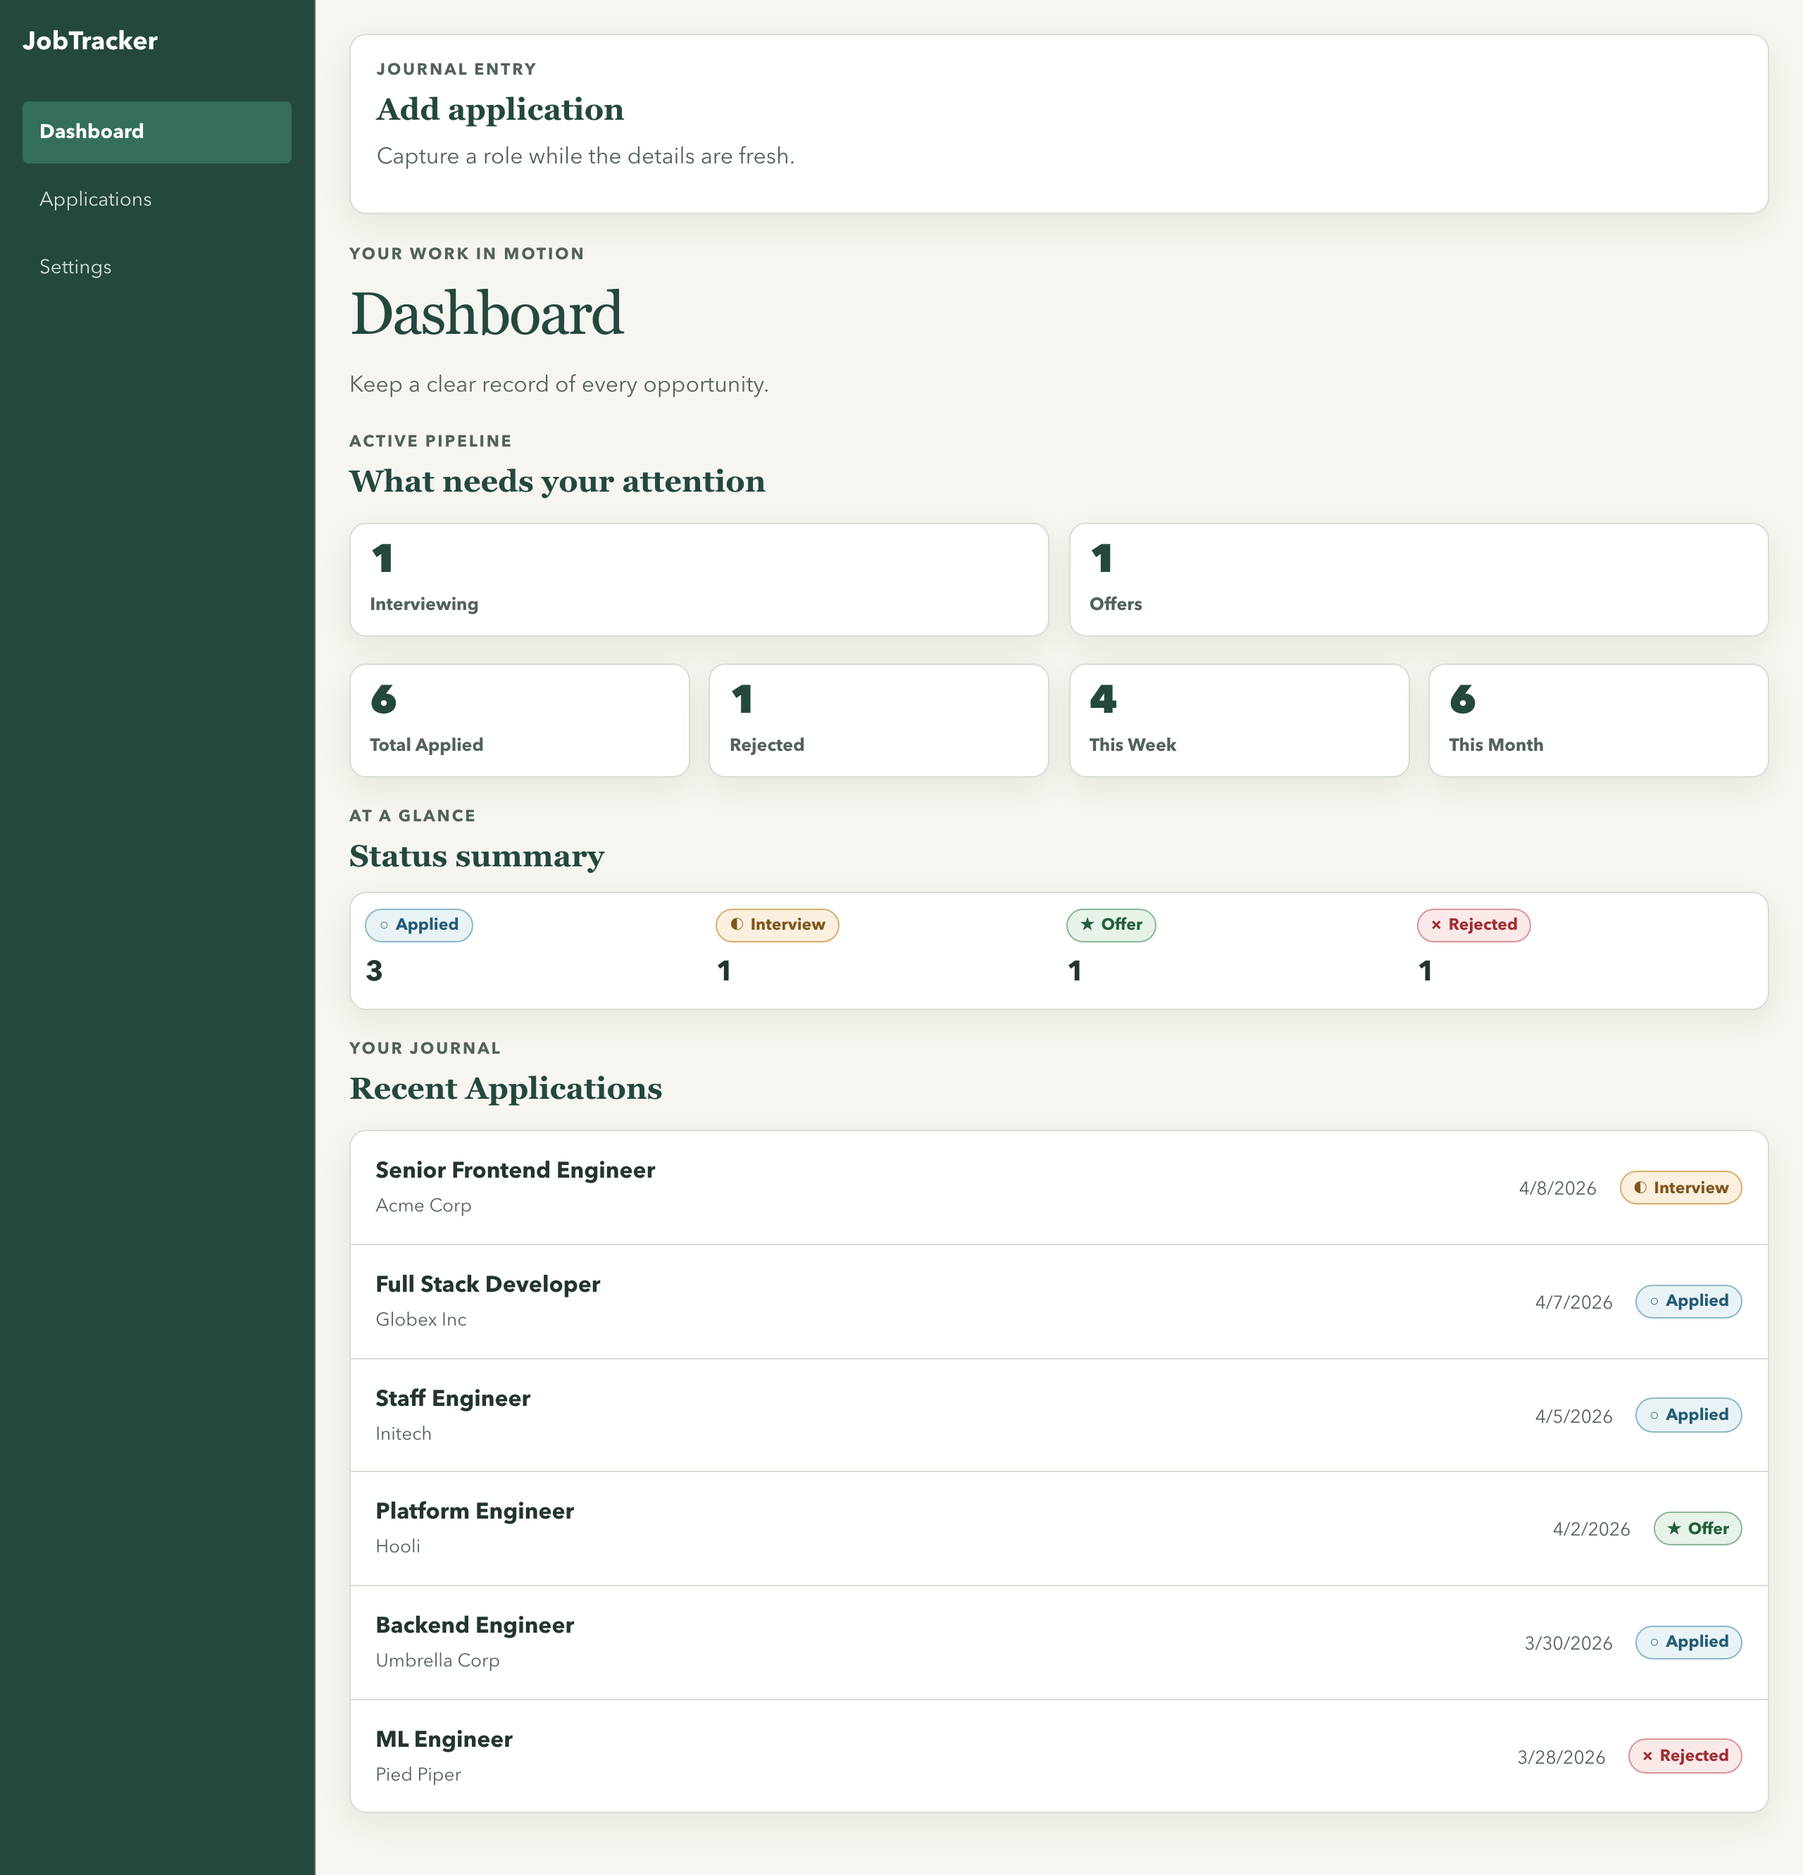
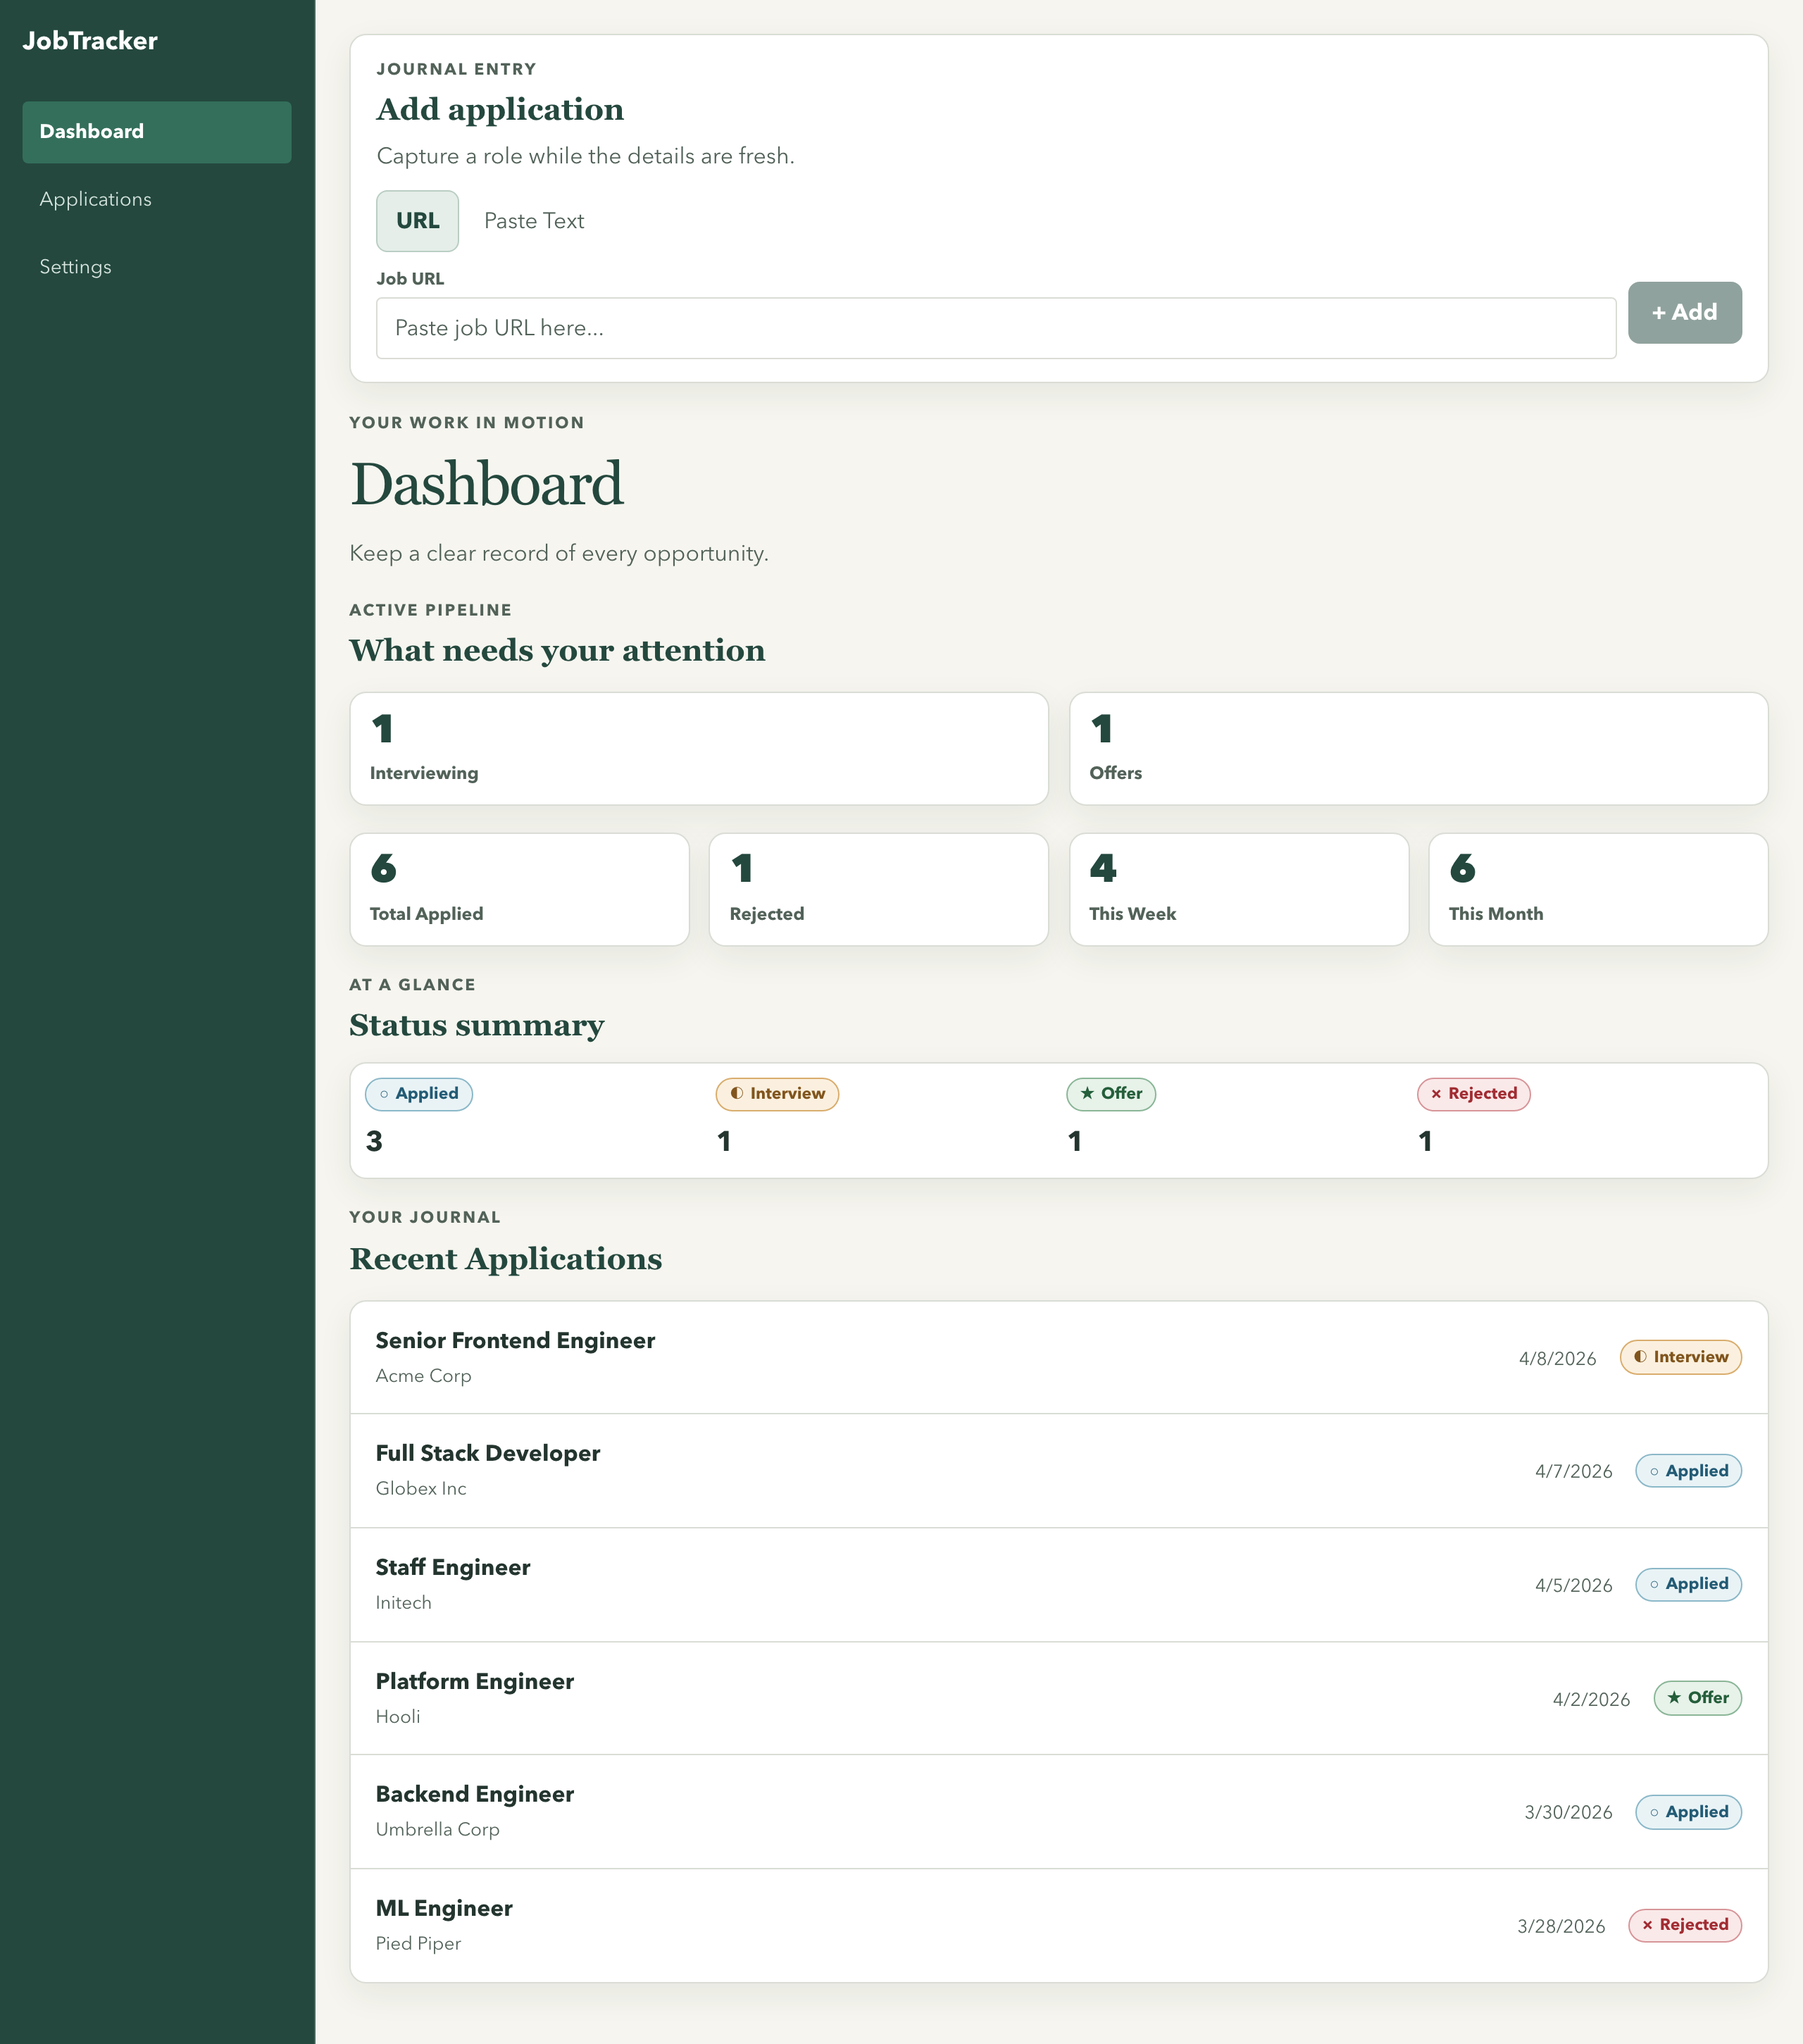
fix: pin local Docker daemon and forward container shutdown

diff --git a/__tests__/scripts/local-container-signals.test.ts b/__tests__/scripts/local-container-signals.test.ts
@@ -1,0 +1,69 @@
+import { spawn } from "node:child_process";
+import { join } from "node:path";
+import { pathToFileURL } from "node:url";
+
+const moduleUrl = pathToFileURL(join(__dirname, "../../scripts/local-container-start.mjs")).href;
+const valid = {
+  NODE_ENV: "production", LOCAL_DOCKER_HTTP_ENABLED: "1",
+  POSTGRES_PASSWORD: "c".repeat(64), DATABASE_URL: `postgresql://jobtracker:${"c".repeat(64)}@db:5432/jobtracker`,
+  ENCRYPTION_SECRET: "e".repeat(64), APP_ACCESS_TOKEN: "a".repeat(64),
+  APP_BASE_URL: "http://127.0.0.1:3000", CORS_ALLOWED_ORIGINS: "http://127.0.0.1:3000",
+};
+
+const describeSignals = process.platform === "win32" ? describe.skip : describe;
+describeSignals("local container real-child shutdown", () => {
+  it.each([
+    ["app", "SIGTERM", false], ["app", "SIGINT", false],
+    ["migration", "SIGTERM", false], ["migration", "SIGINT", false],
+    ["app", "SIGTERM", true], ["migration", "SIGTERM", true],
+  ] as const)("forwards %s %s and waits for exit (ignores signal: %s)", async (stage, signal, ignore) => {
+    const childSource = `
+      for (const signal of ["SIGTERM", "SIGINT"]) process.on(signal, () => {
+        console.log("RECEIVED:" + signal);
+        ${ignore ? "" : 'setTimeout(() => { console.log("DRAINED"); process.exit(0); }, 50);'}
+      });
+      console.log("READY:" + process.pid);
+      setInterval(() => {}, 1000);
+    `;
+    const source = `
+      import { spawn } from "node:child_process";
+      import { startLocalContainer } from ${JSON.stringify(moduleUrl)};
+      const status = await startLocalContainer({ env: ${JSON.stringify(valid)}, shutdownTimeoutMs: 150,
+        run: (command, args, options) => {
+          const migration = args.includes("migrate");
+          console.log("STAGE:" + (migration ? "migration" : "app"));
+          return spawn(process.execPath, ["-e", migration && ${JSON.stringify(stage)} === "app" ? "process.exit(0)" : ${JSON.stringify(childSource)}], { ...options, stdio: "inherit" });
+        } });
+      console.log("FINISHED:" + status);
+      process.exitCode = status;
+    `;
+    const wrapper = spawn(process.execPath, ["--input-type=module", "-e", source], { stdio: ["ignore", "pipe", "pipe"] });
+    let output = "";
+    let fixturePid: number | undefined;
+    const exited = new Promise<{ code: number | null; signal: string | null }>((resolve) => wrapper.once("exit", (code, signal) => resolve({ code, signal })));
+    const deadline = setTimeout(() => wrapper.kill("SIGKILL"), 5000);
+    try {
+      await new Promise<void>((resolve, reject) => {
+        wrapper.stdout.on("data", (chunk: Buffer) => {
+          output += chunk.toString();
+          const ready = /READY:(\d+)/u.exec(output);
+          if (ready) { fixturePid = Number(ready[1]); resolve(); }
+        });
+        wrapper.once("exit", () => reject(new Error("Wrapper exited before fixture readiness: " + output)));
+      });
+      wrapper.kill(signal);
+      const result = await exited;
+      expect(output).toContain("RECEIVED:" + signal);
+      if (!ignore) expect(output).toContain("DRAINED");
+      expect(output).toContain("FINISHED:" + (signal === "SIGTERM" ? 143 : 130));
+      expect(result).toEqual({ code: signal === "SIGTERM" ? 143 : 130, signal: null });
+      if (stage === "migration") expect(output).not.toContain("STAGE:app");
+      expect(() => process.kill(fixturePid!, 0)).toThrow();
+    } finally {
+      clearTimeout(deadline);
+      wrapper.kill("SIGKILL");
+      if (fixturePid) { try { process.kill(fixturePid, "SIGKILL"); } catch {} }
+      await exited;
+    }
+  }, 8000);
+});

diff --git a/__tests__/scripts/local-container-start.test.ts b/__tests__/scripts/local-container-start.test.ts
@@ -10,23 +10,27 @@ const valid = {
   APP_BASE_URL: "http://127.0.0.1:3000", CORS_ALLOWED_ORIGINS: "http://127.0.0.1:3000",
   APPLICATION_WRITES_ENABLED: "1", APPLICATION_IDENTITY_WRITES_ENABLED: "0", VALIDATION_MANUAL_ENTRY_ENABLED: "0",
 };
-function run(overrides = {}, migrationStatus = 0) {
+function run(overrides = {}, migrationStatus = 0, failure?: "throw" | "error") {
   const result = spawnSync(process.execPath, ["--input-type=module", "-e", `
     import { startLocalContainer } from ${JSON.stringify(moduleUrl)};
+    import { EventEmitter } from "node:events";
     const chunks=[]; for await (const c of process.stdin) chunks.push(c);
     const input=JSON.parse(Buffer.concat(chunks).toString()), calls=[], errors=[];
     const status=await startLocalContainer({ env: input.env, stderr: value=>errors.push(value),
-      run: (command,args)=>{ calls.push({command,args}); return {status: calls.length===1 ? input.migrationStatus : 0, stderr:"SENSITIVE_DATABASE_URL"}; } });
+      run: (command,args)=>{ calls.push({command,args});
+        if (input.failure === "throw") throw new Error("SENSITIVE_DATABASE_URL");
+        const child = new EventEmitter(); child.kill = () => true;
+        queueMicrotask(() => input.failure === "error" ? child.emit("error", new Error("SENSITIVE_DATABASE_URL")) : child.emit("close", calls.length===1 ? input.migrationStatus : 0, null)); return child; } });
     process.stdout.write(JSON.stringify({status,calls,errors}));
-  `], { input: JSON.stringify({ env: { ...valid, ...overrides }, migrationStatus }), encoding: "utf8" });
+  `], { input: JSON.stringify({ env: { ...valid, ...overrides }, migrationStatus, failure }), encoding: "utf8" });
   expect(result.status).toBe(0); return JSON.parse(result.stdout);
 }
 describe("local container migration boundary", () => {
   it("migrates only the owned database before the normal production entrypoint", () => {
     const result = run(); expect(result.status).toBe(0);
     expect(result.calls).toEqual([
-      { command: "node", args: ["node_modules/prisma/build/index.js", "migrate", "deploy"] },
-      { command: "npm", args: ["start"] },
+      { command: process.execPath, args: ["node_modules/prisma/build/index.js", "migrate", "deploy"] },
+      { command: process.execPath, args: ["--import", "./scripts/validate-startup-env-production.mjs", "node_modules/next/dist/bin/next", "start"] },
     ]);
   });
   it.each([
@@ -44,5 +48,11 @@ describe("local container migration boundary", () => {
   it("does not launch Next after migration failure or reveal raw subprocess diagnostics", () => {
     const result = run({}, 1); expect(result.status).toBe(1); expect(result.calls).toHaveLength(1);
     expect(result.errors.join()).toMatch(/migration/i); expect(result.errors.join()).not.toContain("SENSITIVE_DATABASE_URL");
+  });
+  it.each(["throw", "error"] as const)("sanitizes migration spawn %s and never launches Next", (failure) => {
+    const result = run({}, 0, failure);
+    expect(result.status).toBe(1); expect(result.calls).toHaveLength(1);
+    expect(result.errors.join()).toMatch(/migration/i);
+    expect(result.errors.join()).not.toContain("SENSITIVE_DATABASE_URL");
   });
 });

diff --git a/__tests__/scripts/screenshot-workflow.test.ts b/__tests__/scripts/screenshot-workflow.test.ts
@@ -23,6 +23,21 @@ if (scenario.kind === "origin") {
   let error = null;
   try { value = assertLocalCaptureBaseUrl(scenario.url); } catch (cause) { error = cause.message; }
   process.stdout.write(JSON.stringify({ value, error }));
+} else if (scenario.kind === "dashboard-ready") {
+  const workflow = await import(${JSON.stringify(workflowUrl)});
+  const events = [];
+  let mounted = false;
+  const page = {
+    async waitForSelector(selector, options) {
+      events.push({ type: "wait", selector, options });
+      await new Promise((resolve) => setTimeout(resolve, 10));
+      mounted = true;
+      events.push({ type: "form-mounted" });
+    },
+  };
+  await workflow.waitForDashboardReady(page);
+  events.push({ type: mounted ? "capture-after-form" : "capture-before-form" });
+  process.stdout.write(JSON.stringify({ events }));
 } else if (scenario.kind === "authenticate") {
   const context = {
     request: {
@@ -136,9 +151,10 @@ type AuthenticateScenario = {
 };
 
 type OriginScenario = { kind: "origin"; url: string };
+type DashboardReadyScenario = { kind: "dashboard-ready" };
 
 function runScenario(
-  scenario: WorkflowScenario | AuthenticateScenario | OriginScenario,
+  scenario: WorkflowScenario | AuthenticateScenario | OriginScenario | DashboardReadyScenario,
 ): {
   events?: Array<string | Record<string, unknown>>;
   error: string | null;
@@ -162,6 +178,20 @@ function runScenario(
 }
 
 describe("screenshot workflow orchestration", () => {
+  test("waits for the dynamically loaded dashboard application form before capture", () => {
+    const result = runScenario({ kind: "dashboard-ready" });
+
+    expect(result.events).toEqual([
+      {
+        type: "wait",
+        selector: "#add-application-panel #url-input",
+        options: { state: "visible" },
+      },
+      { type: "form-mounted" },
+      { type: "capture-after-form" },
+    ]);
+  });
+
   test("authenticates app captures before using a separate offline setup context", () => {
     const result = runScenario({ kind: "workflow", setupOnly: false });
 
@@ -304,6 +334,10 @@ describe("screenshot capture origin", () => {
     "https://127.0.0.1:3000",
     "http://example.invalid",
     "http://localhost.evil.invalid",
+    "http://127.1:3107",
+    "http://2130706433:3107",
+    "http://0x7f000001:3107",
+    "http://0177.0.0.1:3107",
     "http://user:pass@localhost:3000",
     "http://localhost:3000/path",
   ])("rejects non-local or non-origin capture URLs (%s)", (origin) => {

diff --git a/__tests__/scripts/local-setup.test.ts b/__tests__/scripts/local-setup.test.ts
@@ -119,6 +119,31 @@ describe("managed local configuration", () => {
 });
 
 describe("local CLI isolation", () => {
+  it("pins all later calls to the verified daemon even if the active context changes", () => {
+    const { root, configDir } = fixture();
+    const result = run(`
+      let currentEndpoint = "unix:///verified/docker.sock";
+      const targets = [], errors = [];
+      const status = await runLocalCommand({ argv: ["setup"], configDir: input.configDir,
+        repoRoot: input.root, nodeVersion: "22.22.2",
+        env: { DOCKER_CONTEXT: "local", DOCKER_HOST: "unix:///other/docker.sock" },
+        stdout: () => {}, stderr: value => errors.push(value),
+        run: (command, args, options) => {
+          if (args[0] === "context") {
+            currentEndpoint = "ssh://remote.example";
+            return { status: 0, stdout: JSON.stringify("unix:///verified/docker.sock") };
+          }
+          const target = args[0] === "--host" ? args[1] : currentEndpoint;
+          targets.push({ target, host: options.env.DOCKER_HOST, context: options.env.DOCKER_CONTEXT });
+          return { status: 0, stdout: args.includes("--help") ? "--wait --wait-timeout" : "ok" };
+        } });
+      process.stdout.write(JSON.stringify({ status, targets, errors }));
+    `, { root, configDir });
+    expect(result.status).toBe(0);
+    expect(result.targets.length).toBeGreaterThanOrEqual(3);
+    for (const target of result.targets) expect(target).toEqual({ target: "unix:///verified/docker.sock" });
+  });
+
   function cli(configDir: string, scenario: Record<string, unknown> = {}) {
     return run(`
       const calls = [], output = [], errors = [];
@@ -126,6 +151,7 @@ describe("local CLI isolation", () => {
         repoRoot: input.repoRoot, nodeVersion: input.nodeVersion ?? "22.22.2", env: input.env ?? {},
         stdout: value => output.push(value), stderr: value => errors.push(value),
         run: (command, args, options) => {
+          if (args[0] === "--host") args = args.slice(2);
           calls.push({ command, args, env: options.env });
           if (input.fail && args.includes(input.fail)) return { status: 1, stdout: "", stderr: "RAW_SECRET_DATABASE_URL" };
           if (args[0] === "context") return { status: 0, stdout: JSON.stringify(input.endpoint ?? "unix:///var/run/docker.sock") };
